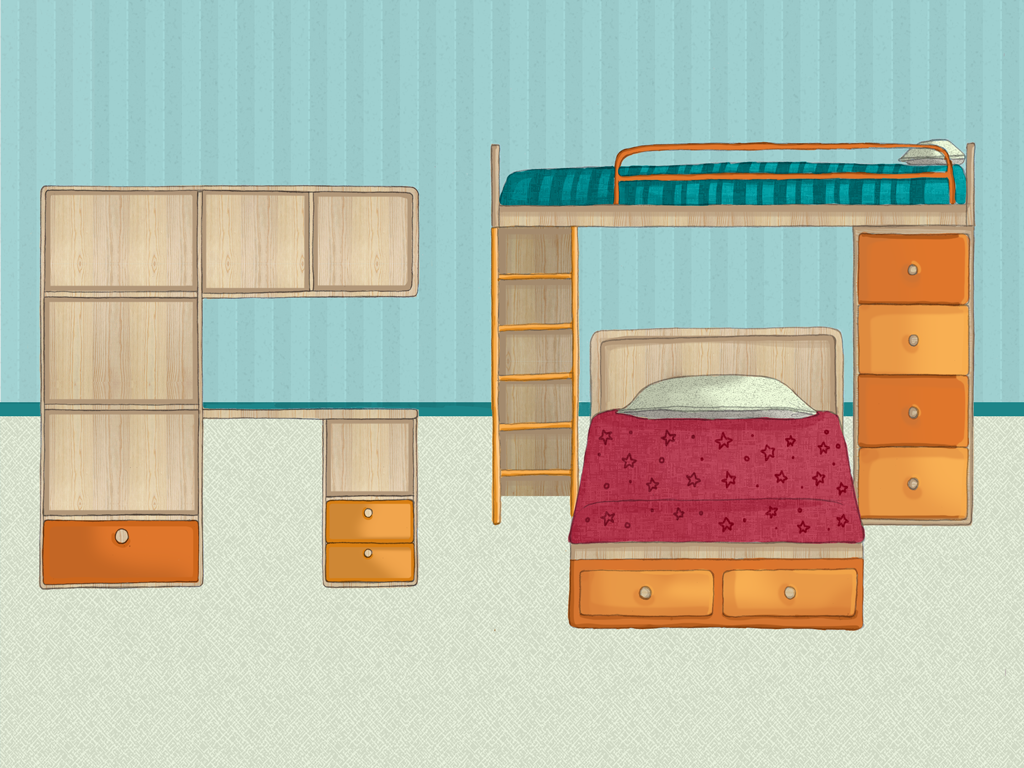
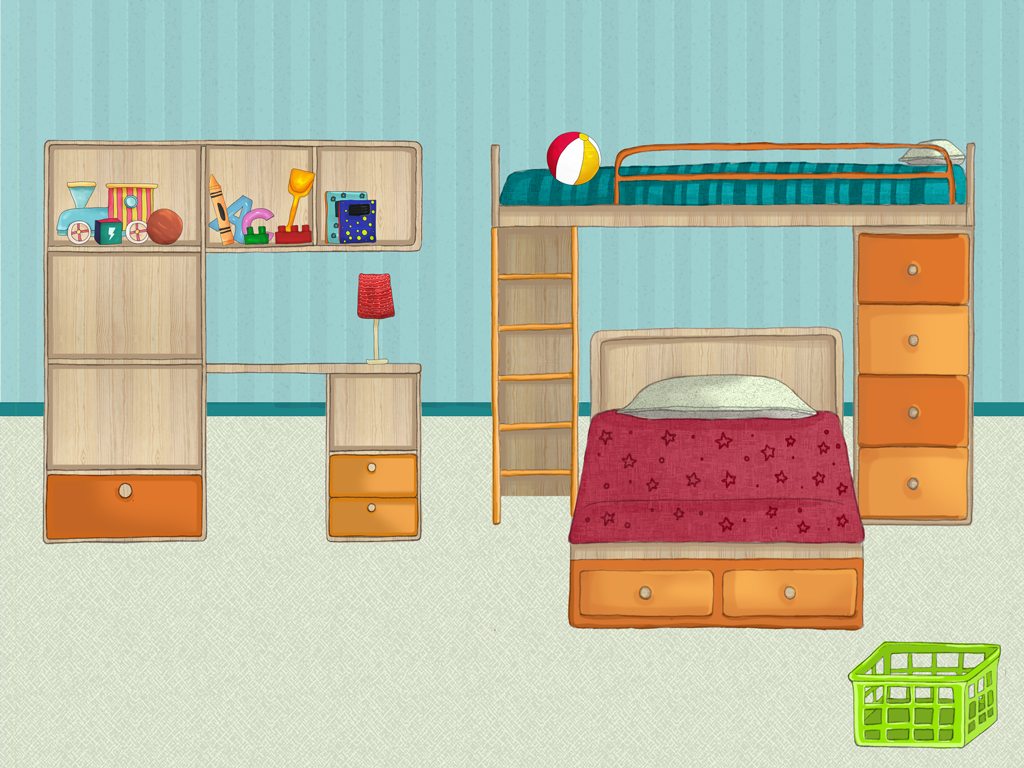
Arreglo de biblioteca, puse los juguetes, maleta, medias. La biblioteca la puse pero no muestra.

Changed region(s): [[0.0312, 0.1562, 0.4375, 0.7812], [0.8125, 0.8125, 1.0, 1.0], [0.5312, 0.1562, 0.5938, 0.25]]

diff --git a/Maquetacion/sass/main.scss b/Maquetacion/sass/main.scss
@@ -275,10 +275,67 @@ $font-titles: 'quicksandbold';
   right:228px;
 }
 .backpack{
-  width: 103px;
-  height:163px;
+  width: 117px;
+  height:185px;
   background-image: url("../img/bedroom-backpack.png");
   top:525px;
   right: 228px;
 
+}
+.blue-box{
+  width: 120px;
+  height:75px;
+  background-image: url("../img/bedroom-blue-box.png");
+  top:280px;
+  right: 840px;
+
+}
+.purple-box{
+  width: 112px;
+  height: 81px;
+  background-image: url("../img/bedroom-purple-box.png");
+  top: 385px;
+  right: 840px;
+}
+.toys{
+  width: 130px;
+  height: 171px;
+  background-image: url("../img/bedroom-toys.png");
+  top:440px;
+  right:25px;
+}
+.sock{
+  width: 69px;
+  height: 49px;
+  background-image: url("../img/bedroom-sock.png");
+  top:620px;
+  right:900px;
+}
+.yellow-sock{
+  width: 81px;
+  height: 62px;
+  background-image: url("../img/bedroom-yellow-sock.png");
+  top:678px;
+  right:890px;
+}
+.green-sock{
+  width: 56px;
+  height: 28px;
+  background-image: url("../img/bedroom-green-sock.png");
+  top:620px;
+  right:825px;
+}
+.blue-sock{
+  width: 52px;
+  height:73px;
+  background-image: url("..img/bedroom-blue-sock.png");
+  top:678px;
+  right:825px;
+}
+.books{
+  width: 382px;
+  height:144px;
+  background-image: url("..img/bedroom-books.png");
+  top:300px;
+  right:300px;
 }

diff --git a/Maquetacion/css/main.css b/Maquetacion/css/main.css
@@ -338,9 +338,73 @@
 }
 
 .backpack {
-  width: 103px;
-  height: 163px;
+  width: 117px;
+  height: 185px;
   background-image: url("../img/bedroom-backpack.png");
   top: 525px;
   right: 228px;
+}
+
+.blue-box {
+  width: 120px;
+  height: 75px;
+  background-image: url("../img/bedroom-blue-box.png");
+  top: 280px;
+  right: 840px;
+}
+
+.purple-box {
+  width: 112px;
+  height: 81px;
+  background-image: url("../img/bedroom-purple-box.png");
+  top: 385px;
+  right: 840px;
+}
+
+.toys {
+  width: 130px;
+  height: 171px;
+  background-image: url("../img/bedroom-toys.png");
+  top: 440px;
+  right: 25px;
+}
+
+.sock {
+  width: 69px;
+  height: 49px;
+  background-image: url("../img/bedroom-sock.png");
+  top: 620px;
+  right: 900px;
+}
+
+.yellow-sock {
+  width: 81px;
+  height: 62px;
+  background-image: url("../img/bedroom-yellow-sock.png");
+  top: 678px;
+  right: 890px;
+}
+
+.green-sock {
+  width: 56px;
+  height: 28px;
+  background-image: url("../img/bedroom-green-sock.png");
+  top: 620px;
+  right: 825px;
+}
+
+.blue-sock {
+  width: 52px;
+  height: 73px;
+  background-image: url("..img/bedroom-blue-sock.png");
+  top: 678px;
+  right: 825px;
+}
+
+.books {
+  width: 382px;
+  height: 144px;
+  background-image: url("..img/bedroom-books.png");
+  top: 300px;
+  right: 300px;
 }

diff --git a/Maquetacion/bedroom.html b/Maquetacion/bedroom.html
@@ -18,16 +18,17 @@
 
     <div class="container">
       <div class="bedroom">
-        <div class="objects beach-ball"> </div>
         <div class="objects purple-box"> </div>
         <div class="objects blue-box"> </div>
-        <div class="objects train"> </div>
-        <div class="objects green-lego"> </div>
         <div class="objects backpack"> </div>
-        <div class="objects blue-notebook"> </div>
-        <div class="objects green-notebook"> </div>
         <div class="objects pillow"> </div>
-        <div class="objects crayon"> </div>
+        <div class="objects sock"> </div>
+        <div class="objects toys"> </div>
+        <div class="objects yellow-sock"> </div>
+        <div class="objects green-sock"> </div>
+        <div class="objects blue-sock"> </div>
+        <div class="objects pig"> </div>
+        <div class="objects books"> </div>
 
       </div>
       <nav class="navbar basic-nav">
